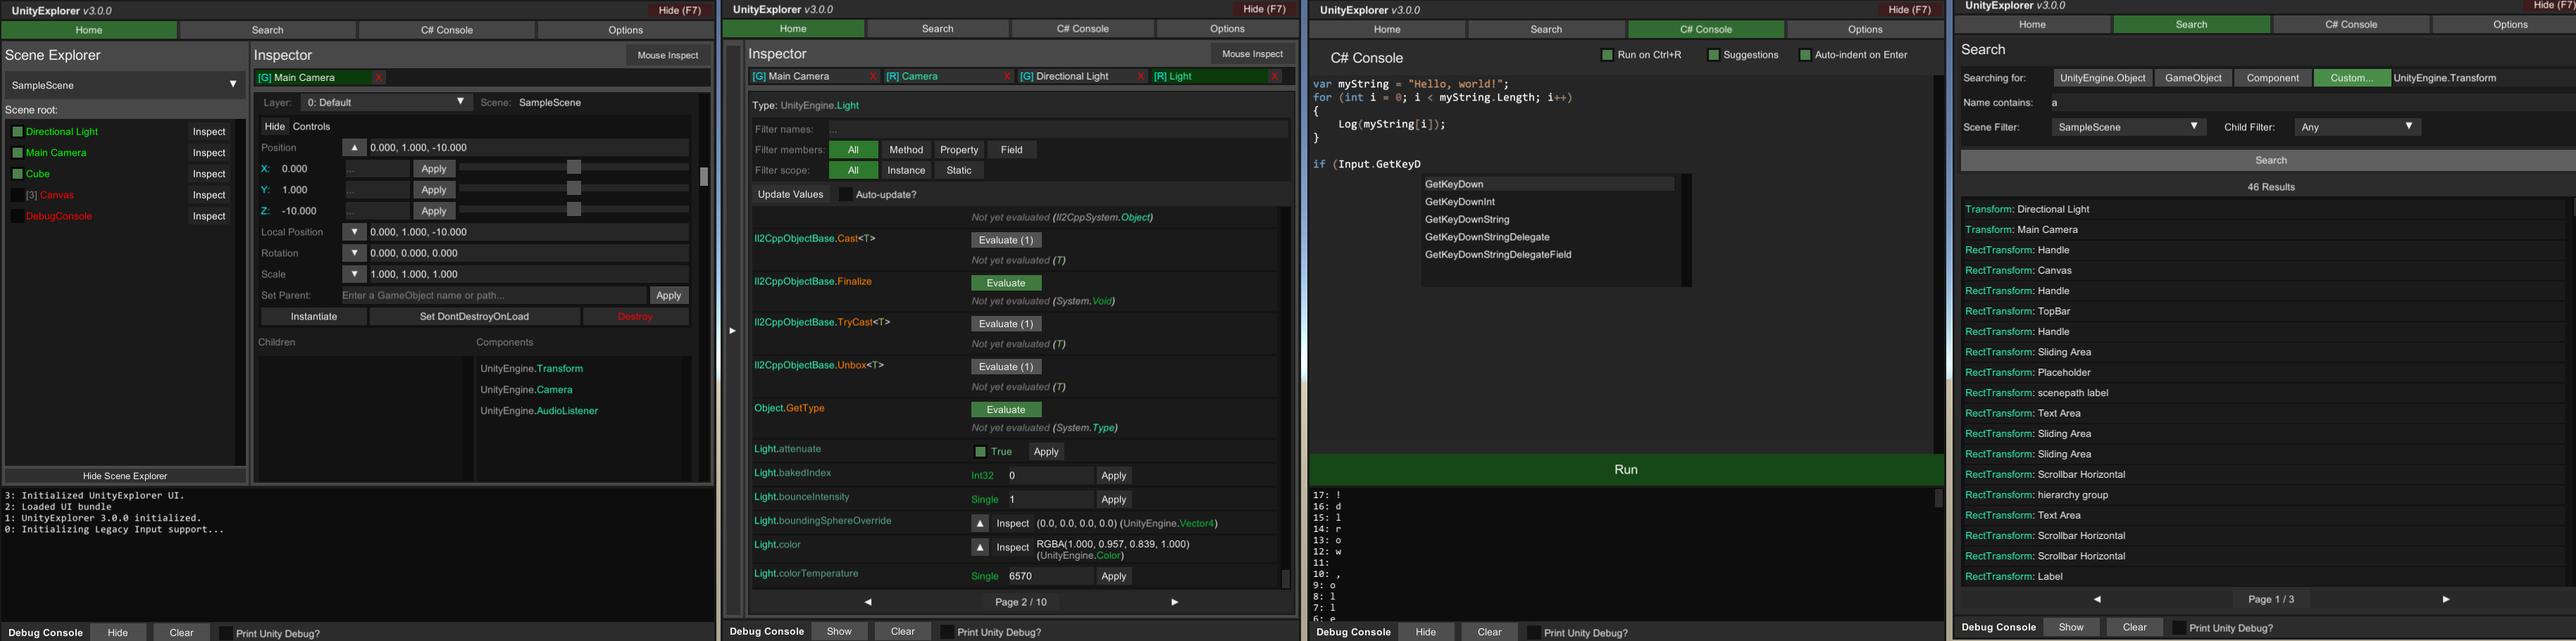
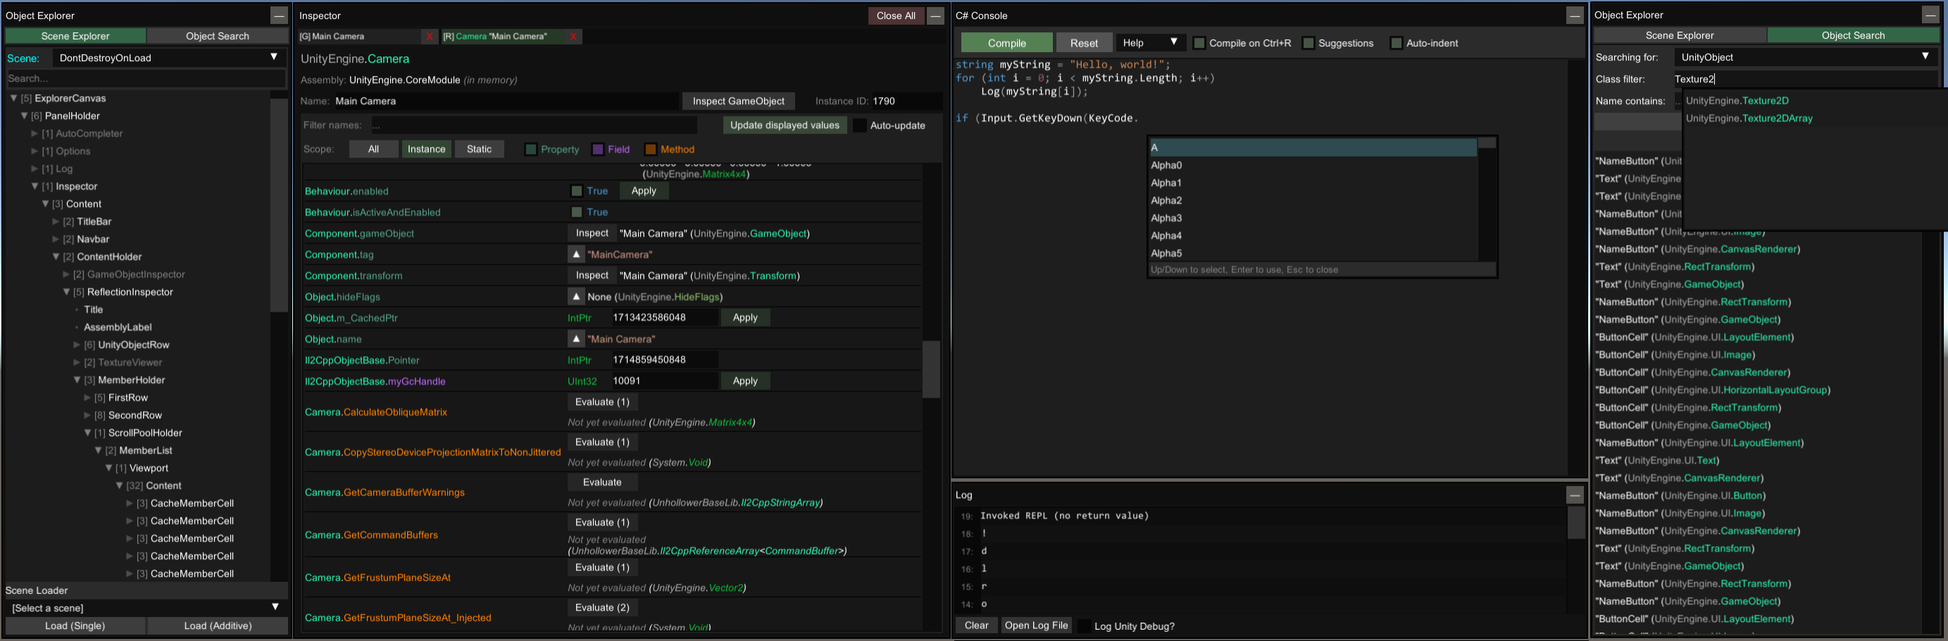
Update img and README, cleanup

Changed region(s): [[0.0, 0.0, 1.0, 1.0], [0.1555, 0.8299, 0.2176, 0.8606]]

diff --git a/src/UI/Widgets/InputFieldScroller.cs b/src/UI/Widgets/InputFieldScroller.cs
@@ -116,17 +116,6 @@ namespace UnityExplorer.UI.Utility
             // Preferred text rect height
             var textGen = InputField.Component.textComponent.cachedTextGeneratorForLayout;
             m_desiredContentHeight = textGen.GetPreferredHeight(m_lastText, texGenSettings) + 10;
-
-            // TODO more intelligent jump.
-            // We can detect if the caret is outside the viewport area.
-
-            // jump to bottom
-            if (InputField.Component.caretPosition == InputField.Text.Length
-                && InputField.Text.Length > 0
-                && InputField.Text[InputField.Text.Length - 1] == '\n')
-            {
-                m_wantJumpToBottom = true;
-            }
         }
 
         public override void ConstructUI(GameObject parent)

diff --git a/src/UI/Panels/CSConsolePanel.cs b/src/UI/Panels/CSConsolePanel.cs
@@ -36,7 +36,6 @@ namespace UnityExplorer.UI.Panels
 
         private void InvokeOnValueChanged(string value)
         {
-            // Todo show a label instead of just logging
             if (value.Length == UIManager.MAX_INPUTFIELD_CHARS)
                 ExplorerCore.LogWarning($"Reached maximum InputField character length! ({UIManager.MAX_INPUTFIELD_CHARS})");
 

diff --git a/src/UI/CacheObject/CacheMember.cs b/src/UI/CacheObject/CacheMember.cs
@@ -127,7 +127,6 @@ namespace UnityExplorer.UI.CacheObject
 
             if (State == ValueState.NotEvaluated && !ShouldAutoEvaluate)
             {
-                // todo evaluate buttons etc
                 SetValueState(cell, ValueStateArgs.Default);
                 cell.RefreshSubcontentButton();
 

diff --git a/README.md b/README.md
@@ -16,61 +16,39 @@
 | ----------- | ------ | ---- |
 | [BepInEx](https://github.com/BepInEx/BepInEx) 6.X | ✅ [link](https://github.com/sinai-dev/UnityExplorer/releases/latest/download/UnityExplorer.BepInEx.Il2Cpp.zip) | ✅ [link](https://github.com/sinai-dev/UnityExplorer/releases/latest/download/UnityExplorer.BepInEx6.Mono.zip) |
 | [BepInEx](https://github.com/BepInEx/BepInEx) 5.X | ✖ n/a | ✅ [link](https://github.com/sinai-dev/UnityExplorer/releases/latest/download/UnityExplorer.BepInEx5.Mono.zip) |
-| [MelonLoader](https://github.com/HerpDerpinstine/MelonLoader) 0.3 | ✅ [link](https://github.com/sinai-dev/UnityExplorer/releases/latest/download/UnityExplorer.MelonLoader.Il2Cpp.zip) | ✅ [link](https://github.com/sinai-dev/UnityExplorer/releases/latest/download/UnityExplorer.MelonLoader.Mono.zip) | 
+| [MelonLoader](https://github.com/HerpDerpinstine/MelonLoader) 0.3.1 | ✅ [link](https://github.com/sinai-dev/UnityExplorer/releases/latest/download/UnityExplorer.MelonLoader.Il2Cpp.zip) | ✅ [link](https://github.com/sinai-dev/UnityExplorer/releases/latest/download/UnityExplorer.MelonLoader.Mono.zip) | 
 | Standalone | ✅ [link](https://github.com/sinai-dev/UnityExplorer/releases/latest/download/UnityExplorer.Standalone.Il2Cpp.zip) | ✅ [link](https://github.com/sinai-dev/UnityExplorer/releases/latest/download/UnityExplorer.Standalone.Mono.zip) | 
+
+### Known issues
+* UI layouts broken/unusable after changing resolutions: delete the file `data.ini` in the UnityExplorer folder (same place as where you put the DLL). Better fix being worked on.
+* Any `MissingMethodException` or `NotSupportedException`: please report the issue and provide a copy of your mod loader log and/or Unity log.
+* The C# console may unexpectedly produce a GC Mark Overflow crash when calling certain outside methods. Not clear yet what is causing this, but it's being looked into.
+* In IL2CPP, some IEnumerable and IDictionary types may fail enumeration. Waiting for the Unhollower rewrite to address this any further.
+* In IL2CPP, the C# console might not suggest deobfuscated (or obfuscated) names. Being looked into.
 
 ## How to install
 
 ### BepInEx
 
-1. Install [BepInEx](https://github.com/BepInEx/BepInEx) for your game. For IL2CPP you should use [BepInEx 6 (Bleeding Edge)](https://builds.bepis.io/projects/bepinex_be), for Mono you should use [BepInEx 5](https://github.com/BepInEx/BepInEx/releases) (until Mono support stabilizes in BepInEx 6).
+1. Install [BepInEx](https://github.com/BepInEx/BepInEx) for your game. IL2CPP currently requires a [Bleeding Edge](https://builds.bepis.io/projects/bepinex_be) release.
 2. Download the UnityExplorer release for BepInEx IL2CPP or Mono above.
 3. Take the `UnityExplorer.BIE.___.dll` file and put it in `[GameFolder]\BepInEx\plugins\`
 4. In IL2CPP, you will need to download the [Unity libs](https://github.com/LavaGang/Unity-Runtime-Libraries) for the game's Unity version and put them in the `BepInEx\unity-libs\` folder. 
 
 ### MelonLoader
 
-1. Install [MelonLoader](https://github.com/HerpDerpinstine/MelonLoader) 0.3+ for your game. Version 0.3 is currently in pre-release, so you must "Enable ALPHA Releases" in your MelonLoader Installer settings to see the option for it.
+1. Install [MelonLoader](https://github.com/HerpDerpinstine/MelonLoader) 0.3.1+ for your game. This version can currently be obtained from [here](https://github.com/LavaGang/MelonLoader/actions).
 2. Download the UnityExplorer release for MelonLoader IL2CPP or Mono above.
 3. Take the `UnityExplorer.ML.___.dll` file and put it in the `[GameFolder]\Mods\` folder.
 
 ### Standalone
 
-The standalone release requires you to also load `0Harmony.dll` (HarmonyX, from the `lib\` folder) to function properly, and the IL2CPP also requires `UnhollowerBaseLib.dll` as well. The Mono release should be fairly easy to use with any loader, but the IL2CPP one may be tricky, I'd recommend just using BepInEx or MelonLoader for IL2CPP.
+The standalone release can be used with any injector or loader of your choice, but it requires you to load the dependencies manually: HarmonyX, and the IL2CPP version also requires that you set up an [Il2CppAssemblyUnhollower runtime](https://github.com/knah/Il2CppAssemblyUnhollower#required-external-setup).
 
-1. Load the UnityExplorer DLL from your mod or inject it, as well as `0Harmony.dll` and `UnhollowerBaseLib.dll` as required.
-2. Create an instance of Unity Explorer with `UnityExplorer.ExplorerStandalone.CreateInstance();`
-3. Optionally subscribe to the `ExplorerStandalone.OnLog` event to handle logging if you wish.
-
-## Issues and contributions
-
-Both issue reports and PR contributions are welcome in this repository.
-
-### Issue reporting
-
-To report an issue with UnityExplorer, please use the following template (as well as any other information / images you can provide).
-
-Template:
-
-```
-* Game issue occurs on: 
-* UnityExplorer version: (eg BIE.IL2CPP v3.3.3, etc)
-
-* Description of issue:
-
-* Unity log link:
-* Mod Loader log link: 
-```
-
-Please upload your Unity log file to [Pastebin](https://pastebin.com/) (or equivalent service) and provide a link to the paste.
-
-* The log should be found at `%userprofile%\AppData\LocalLow\[Company]\[Game]\` unless redirected by your Mod Loader.
-* The file will be called either `output_log.txt` or `Player.log`
-
-As well as the Unity log, please upload your Mod Loader's log:
-
-* BepInEx: `BepInEx\LogOutput.log`
-* MelonLoader: `MelonLoader\Latest.log`
+1. Load the required libs - HarmonyX, and Il2CppAssemblyUnhollower if IL2CPP
+2. Load the UnityExplorer DLL
+3. Create an instance of Unity Explorer with `UnityExplorer.ExplorerStandalone.CreateInstance();`
+4. Optionally subscribe to the `ExplorerStandalone.OnLog` event to handle logging if you wish
 
 ## Features
 
@@ -80,44 +58,31 @@ As well as the Unity log, please upload your Mod Loader's log:
   </a>
 </p>
 
-* <b>Scene Explorer</b>: Simple menu to traverse the Transform heirarchy of the scene. 
-* <b>GameObject Inspector</b>: Various helpful tools to see and manipulate the GameObject, similar to what you can do in the Editor.
-* <b>Reflection Inspector</b>: Inspect Properties and Fields. Can also set primitive values and evaluate primitive methods.
-* <b>Search</b>: Search for UnityEngine.Objects with various filters, or use the helpers for static Instances and Classes.
-* <b>C# Console</b>: Interactive console for evaluating C# methods on the fly, with some basic helpers.
-* <b>Inspect-under-mouse</b>: Hover over an object with a collider and inspect it by clicking on it. There's also a UI mode to inspect UI objects.
+### Object Explorer
 
-### C# Console Tips
+* Use the <b>Scene Explorer</b> tab to traverse the active scenes, as well as the DontDestroyOnLoad scene and the HideAndDontSave "scene" (assets and hidden objects).
+* Use the <b>Object Search</b> tab to search for Unity objects (including GameObjects, Components, etc), C# Singletons or Static Classes.
 
-The C# Console can be used to define temporary classes and methods, or it can be used to evaluate an expression, but you cannot do both at the same time.
+### Inspector
 
-For example, you could run this code to define a temporary class (it will be visible within the console until you run `Reset();`).
+The inspector is used to see detailed information on GameObjects (GameObject Inspector), C# objects (Reflection Inspector) and C# classes (Static Inspector).
 
-```csharp
-public class MyClass
-{
-    public static void Method()
-    {
-        UnityExplorer.ExplorerCore.Log("hello");
-    }
-}
-```
+For the GameObject Inspector, you can edit any of the input fields in the inspector (excluding readonly fields) and press <b>Enter</b> to apply your changes. You can also do this to the GameObject path as a way to change the GameObject's parent. Press the <b>Escape</b> key to cancel your edits.
 
-You could then delete or comment out the class and run the following expression to run that method:
+In the Reflection Inspectors, automatic updating is not enabled by default, and you must press Apply for any changes you make to take effect. 
 
-```csharp
-MyClass.Method();
-```
+### C# Console
 
-However, you cannot define a class and run it both at the same time. You must either define class(es) and run that, or define an expression and run that.
+The C# Console uses the `Mono.CSharp.Evaluator` to define temporary classes or run immediate REPL code.
 
-You can also make use of the helper methods in the console to simplify some tasks, which you can see listed when the console has nothing entered for input. These methods are **not** accessible within any temporary classes you define, they can only be used in the expression context.
+See the "Help" dropdown in the C# console menu for more detailed information.
 
-### Logging
+### Mouse-Inspect
 
-Explorer saves all logs to disk (only keeps the most recent 10 logs). They can be found in a "UnityExplorer" folder in the same place as where you put the DLL file.
+The "Mouse Inspect" dropdown on the main UnityExplorer nav-bar allows you to inspect objects under the mouse.
 
-These logs are also visible in the Debug Console part of the UI.
+* <b>World</b>: uses Physics.Raycast to look for Colliders
+* <b>UI</b>: uses GraphicRaycasters to find UI objects
 
 ### Settings
 
@@ -139,7 +104,7 @@ Building the project should be straight-forward, the references are all inside t
 
 ## Acknowledgments
 
-* [ManlyMarco](https://github.com/ManlyMarco) for [Runtime Unity Editor](https://github.com/ManlyMarco/RuntimeUnityEditor) \[[license](THIRDPARTY_LICENSES.md#runtimeunityeditor-license)\], the ScriptEvaluator from RUE's REPL console was used for UnityExplorer's C# console.
+* [ManlyMarco](https://github.com/ManlyMarco) for [Runtime Unity Editor](https://github.com/ManlyMarco/RuntimeUnityEditor) \[[license](THIRDPARTY_LICENSES.md#runtimeunityeditor-license)\], the ScriptEvaluator from RUE's REPL console was used as the base for UnityExplorer's C# console.
 * [denikson](https://github.com/denikson) (aka Horse) for [mcs-unity](https://github.com/denikson/mcs-unity) \[no license\], used as the `Mono.CSharp` reference for the C# Console.
 * [HerpDerpenstine](https://github.com/HerpDerpinstine) for [MelonCoroutines](https://github.com/LavaGang/MelonLoader/blob/6cc958ec23b5e2e8453a73bc2e0d5aa353d4f0d1/MelonLoader.Support.Il2Cpp/MelonCoroutines.cs) \[[license](THIRDPARTY_LICENSES.md#melonloader-license)\], they were included for standalone IL2CPP coroutine support.
 
